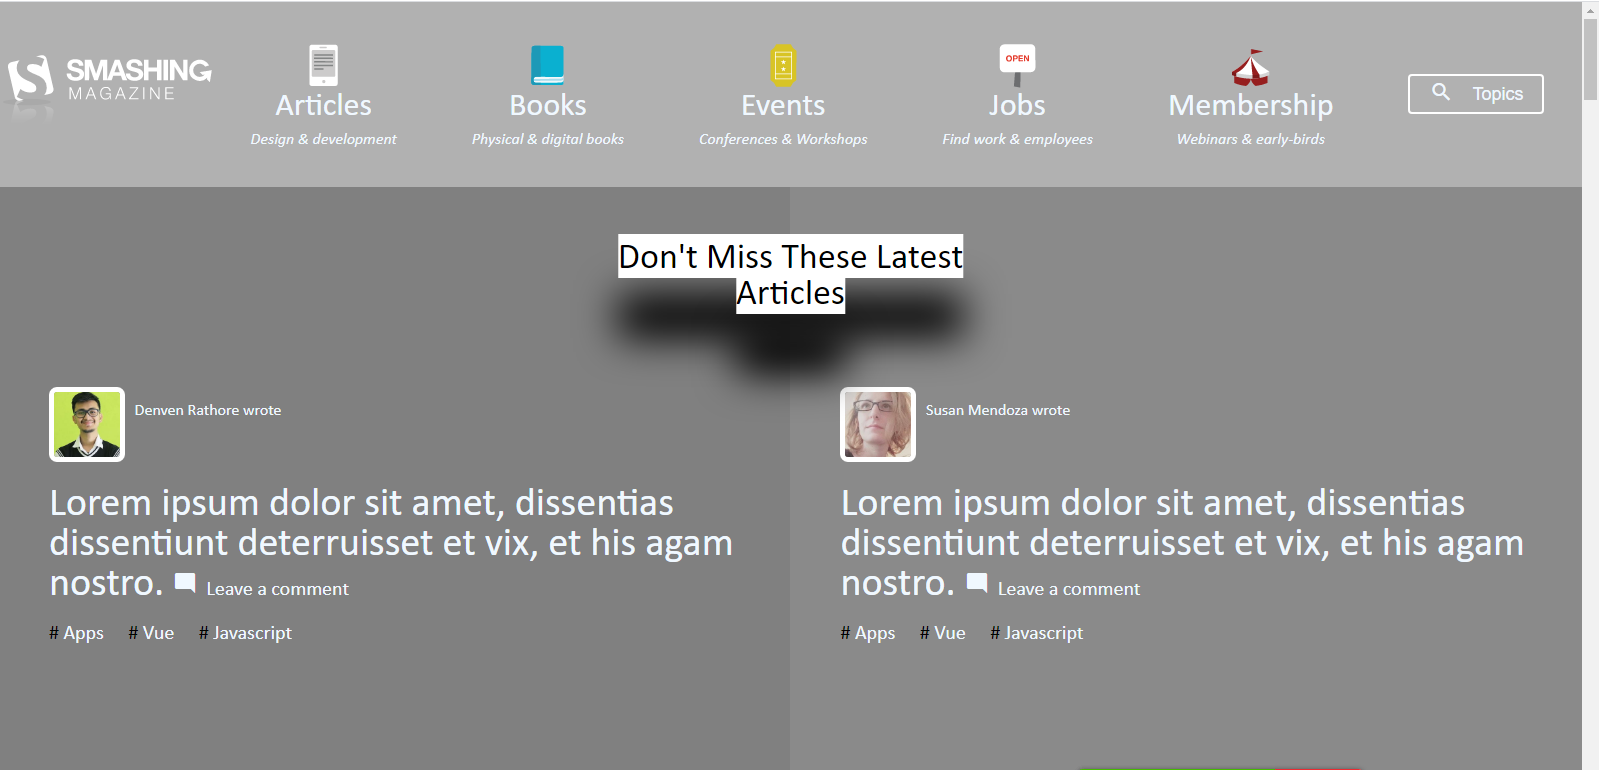
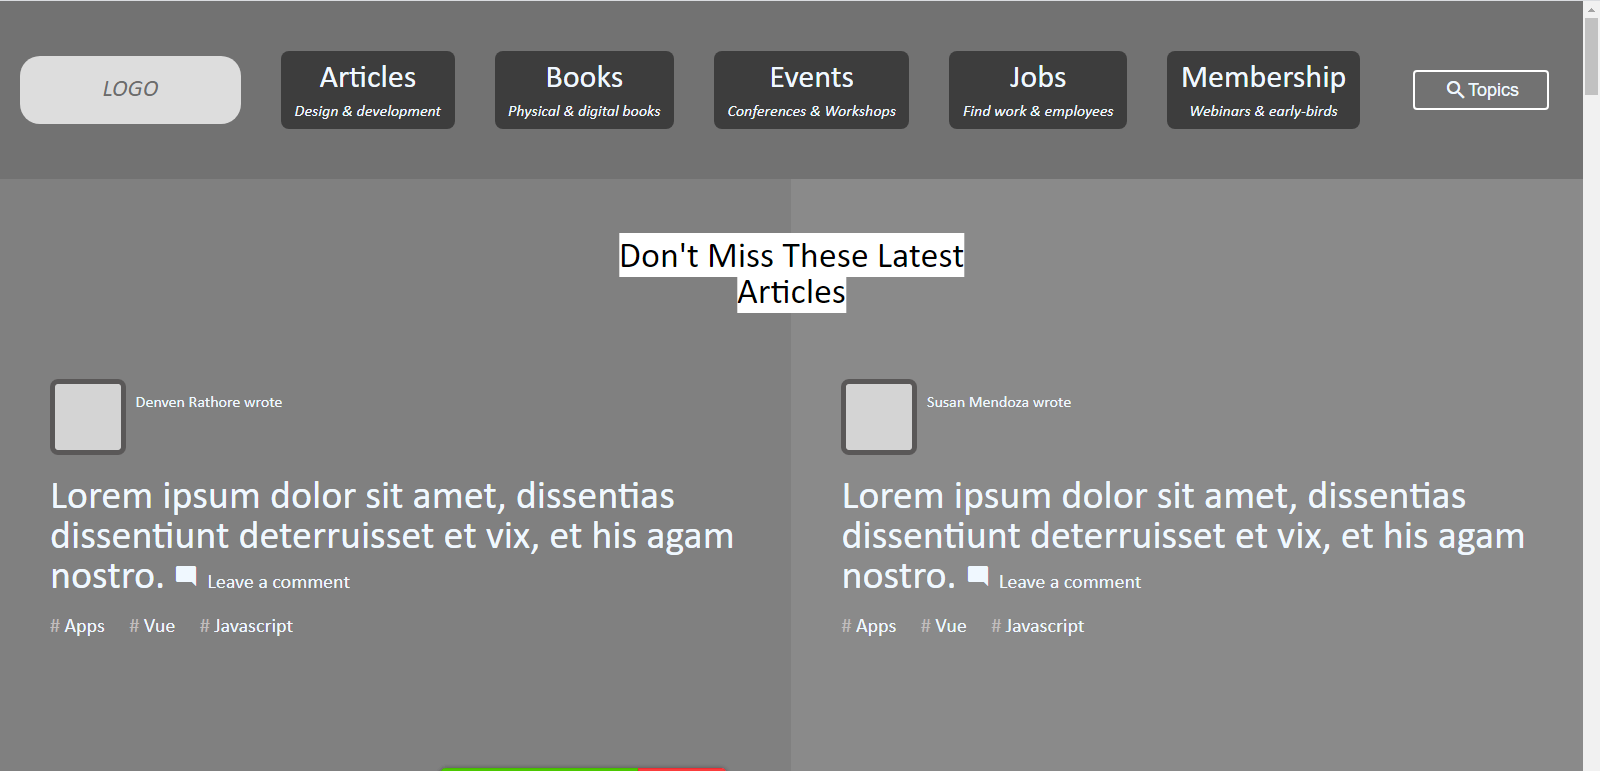
Updates the layout as to the TSE's Recommendation

diff --git a/css/style.css b/css/style.css
@@ -11,7 +11,7 @@ html {
 
 body {
   font-family: 'Gill Sans', 'Gill Sans MT', Calibri, 'Trebuchet MS', sans-serif;
-  background-color: #f3f3f3;
+  background-color: #d6d5d5;
 }
 
 .main-title {
@@ -37,10 +37,27 @@ body {
 }
 
 .header div {
+  display: flex;
+  align-items: center;
+  justify-content: space-between;
+  flex-direction: column;
+  flex-grow: 1;
+  padding: 10px;
   background-color: #3d3d3d;
   margin: 20px;
   border-radius: 8px;
   cursor: pointer;
+}
+
+.people-wrote div {
+  margin-left: 20px;
+}
+
+.person-of-the-week div {
+  display: block;
+  width: 50%;
+  font-size: larger;
+  margin-left: 50px;
 }
 
 .header div:hover {
@@ -52,7 +69,8 @@ body {
   background: none;
 }
 
-.avatar-container .img {
+.avatar-container .img,
+.people-wrote .img {
   width: 75.6px;
   height: 75.6px;
   border: 5px solid rgb(90, 88, 88);
@@ -92,7 +110,7 @@ body {
 .latest-post-3 .img {
   width: 200px;
   height: 200px;
-  border: #444444 solid 4px;
+  border: #444 solid 4px;
   border-radius: 50%;
   display: flex;
   justify-content: center;
@@ -101,23 +119,12 @@ body {
   font-style: italic;
 }
 
-.person-of-the-week img {
+.person-of-the-week .img {
   border: #1e1e1e solid 6px;
   border-radius: 15px;
-}
-
-.people-wrote img {
-  width: 70px;
-  height: 70px;
-  border: #cfcece solid 6px;
-  border-radius: 10px;
-}
-
-.design-systems img {
-  width: 256px;
-  position: relative;
-  bottom: 49px;
-  height: 373px;
+  width: 300px;
+  height: 300px;
+  background-color: #bbb;
 }
 
 .newsletter-cta img {
@@ -129,18 +136,9 @@ body {
   width: 39px;
 }
 
-.header div {
-  display: flex;
-  align-items: center;
-  justify-content: space-between;
-  flex-direction: column;
-  flex-grow: 1;
-  padding: 10px;
-}
-
 #logo-main {
   width: 214px;
-  background-color: #dddddd;
+  background-color: #ddd;
   height: 68px;
   margin: 20px;
   border-radius: 20px;
@@ -330,12 +328,25 @@ form > button {
 .ethical-design {
   grid-column: 1/-1;
   background-color: #676767;
-  text-align: center;
   padding-top: 50px;
+  display: flex;
+  justify-content: center;
+  align-items: center;
+  flex-direction: column;
 }
 
-.ethical-design .img {
-  
+.ethical-design .img,
+.newsletter-cta .img {
+  width: 450px;
+  height: 450px;
+  border: #9d9d9d solid 2px;
+  margin: 30px 0;
+  border-radius: 50%;
+  display: flex;
+  justify-content: center;
+  align-items: center;
+  color: #bbb;
+  font-size: 40px;
 }
 
 .ethical-design h3 {
@@ -379,13 +390,6 @@ form > button {
   padding-left: 70px;
 }
 
-.person-of-the-week div {
-  display: block;
-  width: 50%;
-  font-size: larger;
-  margin-left: 50px;
-}
-
 .person-of-the-week p {
   line-height: 1.7em;
   margin-top: 40px;
@@ -395,10 +399,6 @@ form > button {
   grid-column: span 2;
   display: flex;
   margin: 80px 20px 85px 70px;
-}
-
-.people-wrote div {
-  margin-left: 20px;
 }
 
 .people-wrote h4,
@@ -499,11 +499,14 @@ form > button {
 
 .newsletter-cta {
   grid-column: 1 / -1;
-  text-align: center;
   background-color: #676767;
   width: 90%;
   margin: 0 auto;
   border-radius: 10px;
+  display: flex;
+  justify-content: center;
+  align-items: center;
+  flex-direction: column;
 }
 
 .newsletter-cta h2 {

diff --git a/index.html b/index.html
@@ -280,10 +280,10 @@
       <p>Lorem ipsum dolor sit amet, consectetur adipiscing elit, sed do eiusmod tempor incididunt ut labore et dolore
         magna aliqua. Ut enim ad minim veniam, quis nostrud exercitation ullamco</p>
       <button>Learn more about the book --></button>
-      <div class="img"></div>
+      <div class="img">IMAGE</div>
     </div>
     <div class="person-of-the-week">
-      <img src="./images/person-of-the-week.png" alt="Person of the week">
+      <div class="img"></div>
       <div>
         <h4>PERSON OF THE WEEK</h4>
         <p>Lorem ipsum dolor sit amet, consectetur adipiscing elit, sed do eiusmod tempor incididunt ut labore et dolore
@@ -295,7 +295,7 @@
 
     </div>
     <div class="people-wrote">
-      <img src="images/marcin-wichary-100px-opt.png" alt="Marcin Whichary headshot photo">
+      <div class="img"></div>
       <div>
         <h4><a href="#">Marcin wichary</a> wrote</h4>
         <h2>Lorem ipsum dolor sit</h2>
@@ -306,7 +306,7 @@
       </div>
     </div>
     <div class="people-wrote">
-      <img src="images/hugo-giraudel-100px-opt.png" alt="Hugo Giraudel headshot photo">
+      <div class="img"></div>
       <div>
         <h4><a href="#">Hugo Giraudel</a> wrote</h4>
         <h2>Lorem ipsum dolor sit</h2>
@@ -317,7 +317,7 @@
       </div>
     </div>
     <div class="people-wrote">
-      <img src="images/nolan-lawson-100px-opt.png" alt="Nolan Lawson headshot photo">
+      <div class="img"></div>
       <div>
         <h4><a href="#">Nolan Lawson</a> wrote</h4>
         <h2>Lorem ipsum dolor sit</h2>
@@ -328,7 +328,7 @@
       </div>
     </div>
     <div class="people-wrote">
-      <img src="images/travis-almand-100px-opt.png" alt="Travis Almand headshot photo">
+      <div class="img"></div>
       <div>
         <h4><a href="#">Travis Almond</a> wrote</h4>
         <h2>Lorem ipsum dolor sit</h2>
@@ -339,7 +339,7 @@
       </div>
     </div>
     <div class="people-wrote">
-      <img src="images/addy-osmani-100px-opt.png" alt="Addy Osmani headshot photo">
+      <div class="img"></div>
       <div>
         <h4><a href="#">Andy Osman</a> wrote</h4>
         <h2>Lorem ipsum dolor sit</h2>
@@ -351,7 +351,7 @@
       </div>
     </div>
     <div class="people-wrote">
-      <img src="images/nils-binder-opt.png" alt="Nils Binder headshot photo">
+      <div class="img"></div>
       <div>
         <h4><a href="#">Nils Binder</a> wrote</h4>
         <h2>Lorem ipsum dolor sit</h2>
@@ -379,7 +379,6 @@
           magna aliqua. Ut enim ad.</p>
         <button>Table of Contents</button>
       </div>
-      <img src="./images/design-systems-hardcover-book.png" alt="">
     </div>
 
     <div class="guides">
@@ -447,8 +446,7 @@
       <h2>Lorem ipsum dolor sit amet</h2>
       <p>Ut enim ad minim veniam, quis nostrud exercitation ullamco laboris nisi ut aliquip ex ea commodo
         consequat.</p>
-
-      <img src="images/cat-with-saxophone.svg" alt="cat with saxophone">
+      <div class="img"></div>
       <form>
         <input type="email" placeholder="Your (smashing) email">
         <button>
